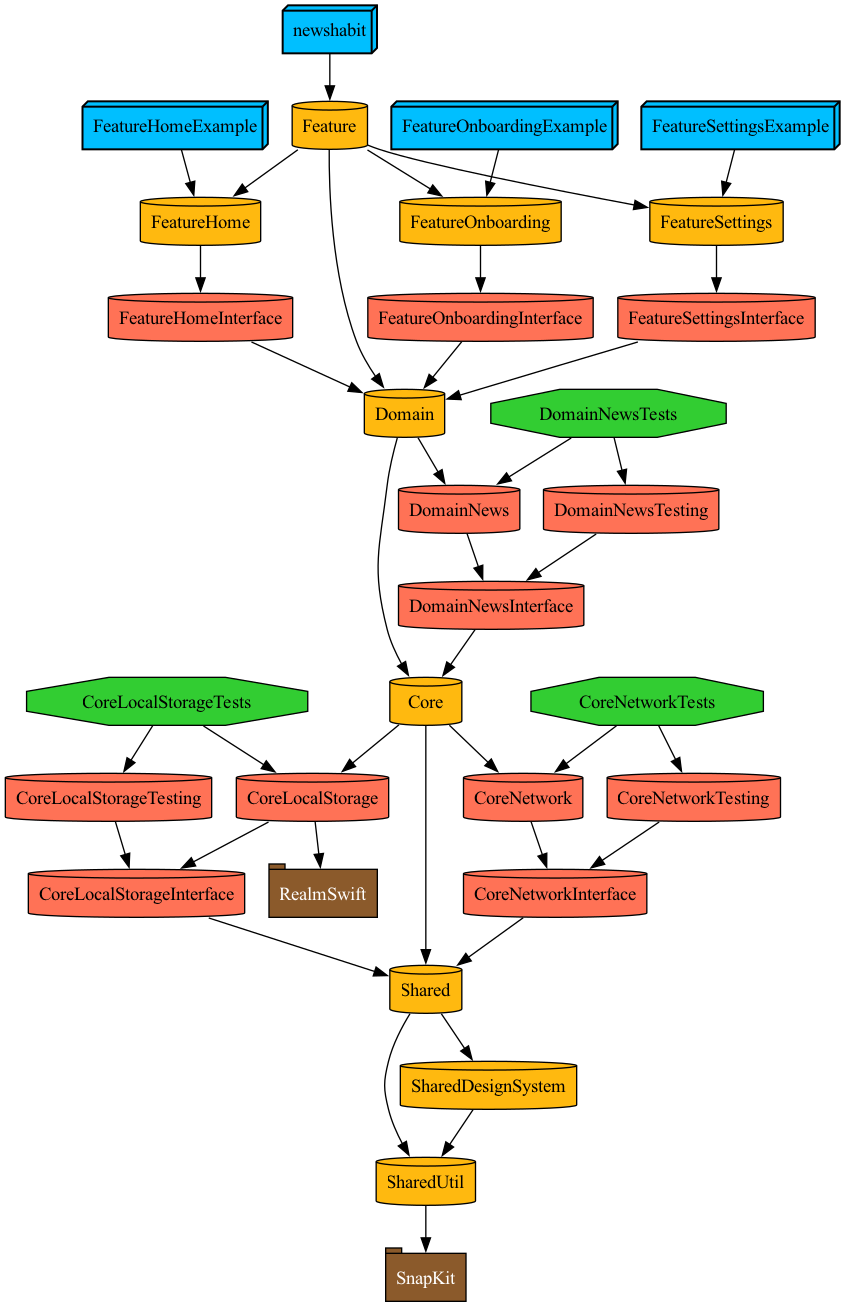
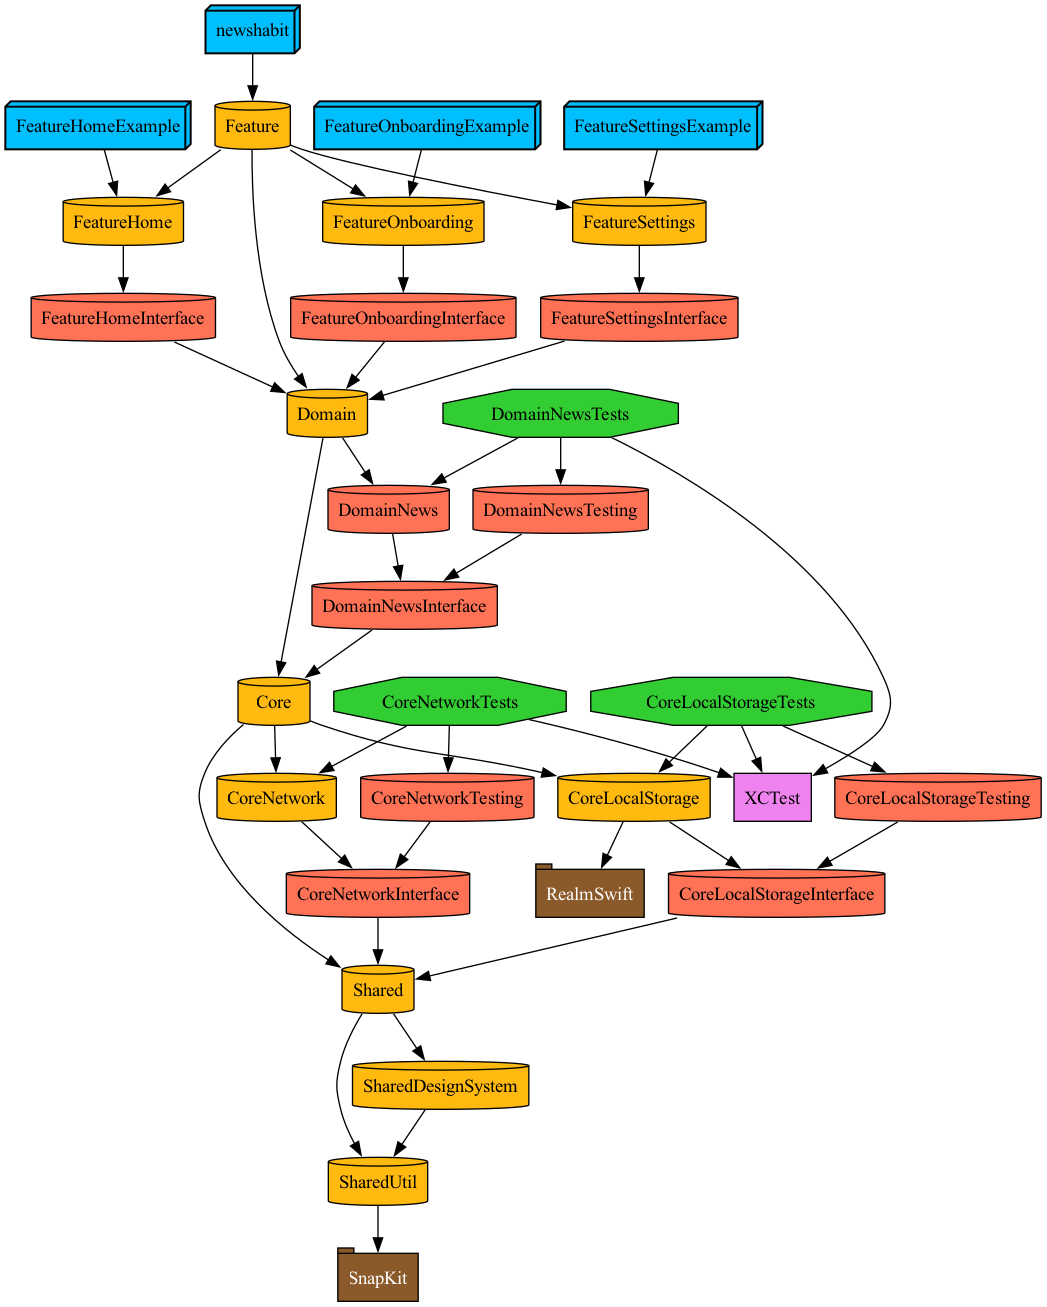
feat: 오늘의 뉴스 데이터 저장 로직 구현

Changed region(s): [[0.0, 0.0, 1.0, 1.0]]

diff --git a/Projects/Core/LocalStorage/Sources/Repositories/DailyNewsRepository.swift b/Projects/Core/LocalStorage/Sources/Repositories/DailyNewsRepository.swift
@@ -1,0 +1,68 @@
+//
+//  DailyNewsRepository.swift
+//  CoreLocalStorage
+//
+//  Created by 지연 on 10/22/24.
+//
+
+import Foundation
+
+import CoreLocalStorageInterface
+import RealmSwift
+import Shared
+
+public final class DailyNewsRepository: DailyNewsRepositoryProtocol {
+    private let realm: Realm
+    
+    public init() {
+        do {
+            let configuration = Realm.Configuration(
+                fileURL: FileManager.default.urls(for: .cachesDirectory, in: .userDomainMask)
+                    .first!
+                    .appendingPathComponent("caching.realm")
+            )
+            realm = try Realm(configuration: configuration)
+        } catch {
+            fatalError(RealmError.realmNotInitialized.localizedDescription)
+        }
+    }
+    
+    public func fetchDailyNews() -> [NewsItem] {
+        let newsEntities = realm.objects(NewsEntity.self)
+        let newsItems = Array(newsEntities).map { $0.toDomain() }
+        return newsItems
+    }
+    
+    public func saveDailyNews(_ items: [NewsItem]) throws {
+        try deleteDailyNews()
+        do {
+            try realm.write {
+                let newsEntities = items.map { NewsEntity($0) }
+                realm.add(newsEntities)
+            }
+        } catch {
+            throw RealmError.failedToSave
+        }
+    }
+    
+    public func updateNewsItem(_ item: NewsItem) throws {
+        do {
+            try realm.write {
+                let newsEntity = NewsEntity(item)
+                realm.add(newsEntity, update: .modified)
+            }
+        } catch {
+            throw RealmError.failedToUpdate
+        }
+    }
+    
+    private func deleteDailyNews() throws {
+        do {
+            try realm.write {
+                realm.deleteAll()
+            }
+        } catch {
+            throw RealmError.failedToDelete
+        }
+    }
+}

diff --git a/Projects/Core/LocalStorage/Sources/Models/NewsEntity.swift b/Projects/Core/LocalStorage/Sources/Models/NewsEntity.swift
@@ -1,0 +1,49 @@
+//
+//  NewsEntity.swift
+//  CoreLocalStorage
+//
+//  Created by 지연 on 10/22/24.
+//
+
+import Foundation
+
+import RealmSwift
+import Shared
+
+public final class NewsEntity: Object {
+    @Persisted(primaryKey: true) var id: UUID
+    @Persisted var title: String
+    @Persisted var content: String
+    @Persisted var category: String
+    @Persisted var url: String
+    @Persisted var imageURL: String
+    @Persisted var isRead: Bool
+    @Persisted var isBookmarked: Bool
+    
+    public convenience init(_ item: NewsItem) {
+        self.init()
+        id = item.id
+        title = item.title
+        content = item.content
+        category = item.category
+        url = item.url
+        imageURL = item.imageURL
+        isRead = item.isRead
+        isBookmarked = item.isBookmarked
+    }
+}
+
+extension NewsEntity {
+    public func toDomain() -> NewsItem {
+        return NewsItem(
+            id: id,
+            title: title,
+            content: content,
+            category: category,
+            url: url,
+            imageURL: imageURL,
+            isRead: isRead,
+            isBookmarked: isBookmarked
+        )
+    }
+}

diff --git a/Projects/Shared/Util/Sources/Models/NewsItem.swift b/Projects/Shared/Util/Sources/Models/NewsItem.swift
@@ -1,0 +1,39 @@
+//
+//  NewsItem.swift
+//  SharedUtil
+//
+//  Created by 지연 on 10/22/24.
+//
+
+import Foundation
+
+public struct NewsItem {
+    public let id: UUID
+    public let title: String
+    public let content: String
+    public let category: String
+    public let url: String
+    public let imageURL: String
+    public var isRead: Bool
+    public var isBookmarked: Bool
+    
+    public init(
+        id: UUID = .init(),
+        title: String,
+        content: String,
+        category: String,
+        url: String,
+        imageURL: String,
+        isRead: Bool = false,
+        isBookmarked: Bool = false
+    ) {
+        self.id = id
+        self.title = title
+        self.content = content
+        self.category = category
+        self.url = url
+        self.imageURL = imageURL
+        self.isRead = isRead
+        self.isBookmarked = isBookmarked
+    }
+}

diff --git a/Tuist/ProjectDescriptionHelpers/Target+Templates.swift b/Tuist/ProjectDescriptionHelpers/Target+Templates.swift
@@ -239,7 +239,7 @@ public extension Target {
 
     static func core(implements module: ModulePath.Core, factory: TargetFactory) -> Self {
         var newFactory = factory
-        newFactory.product = .staticFramework
+        newFactory.product = .framework
         newFactory.name = ModulePath.Core.name + module.rawValue
         newFactory.sources = .sources
 

diff --git a/Projects/Core/LocalStorage/Interface/Repositories/DailyNewsRepositoryProtocol.swift b/Projects/Core/LocalStorage/Interface/Repositories/DailyNewsRepositoryProtocol.swift
@@ -1,0 +1,16 @@
+//
+//  DailyNewsRepositoryProtocol.swift
+//  CoreLocalStorageInterface
+//
+//  Created by 지연 on 10/22/24.
+//
+
+import Foundation
+
+import Shared
+
+public protocol DailyNewsRepositoryProtocol {
+    func fetchDailyNews() -> [NewsItem]
+    func saveDailyNews(_ items: [NewsItem]) throws
+    func updateNewsItem(_ item: NewsItem) throws
+}
